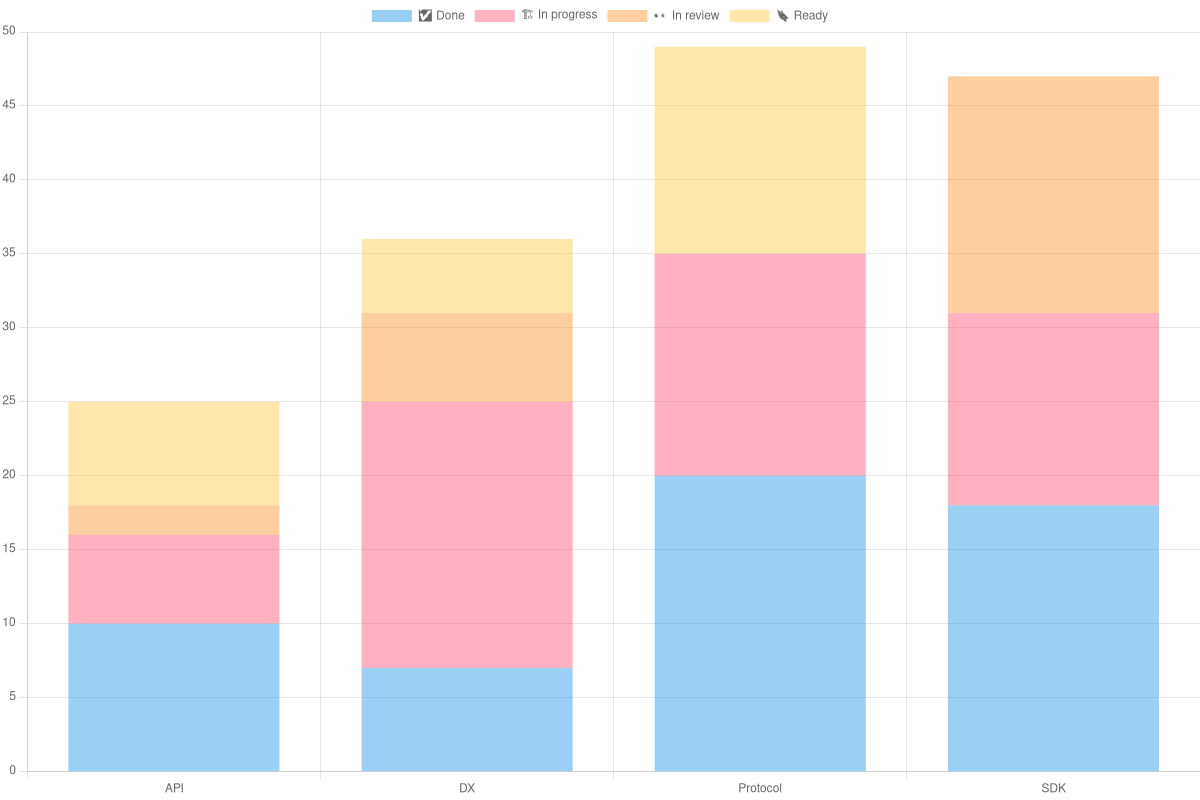
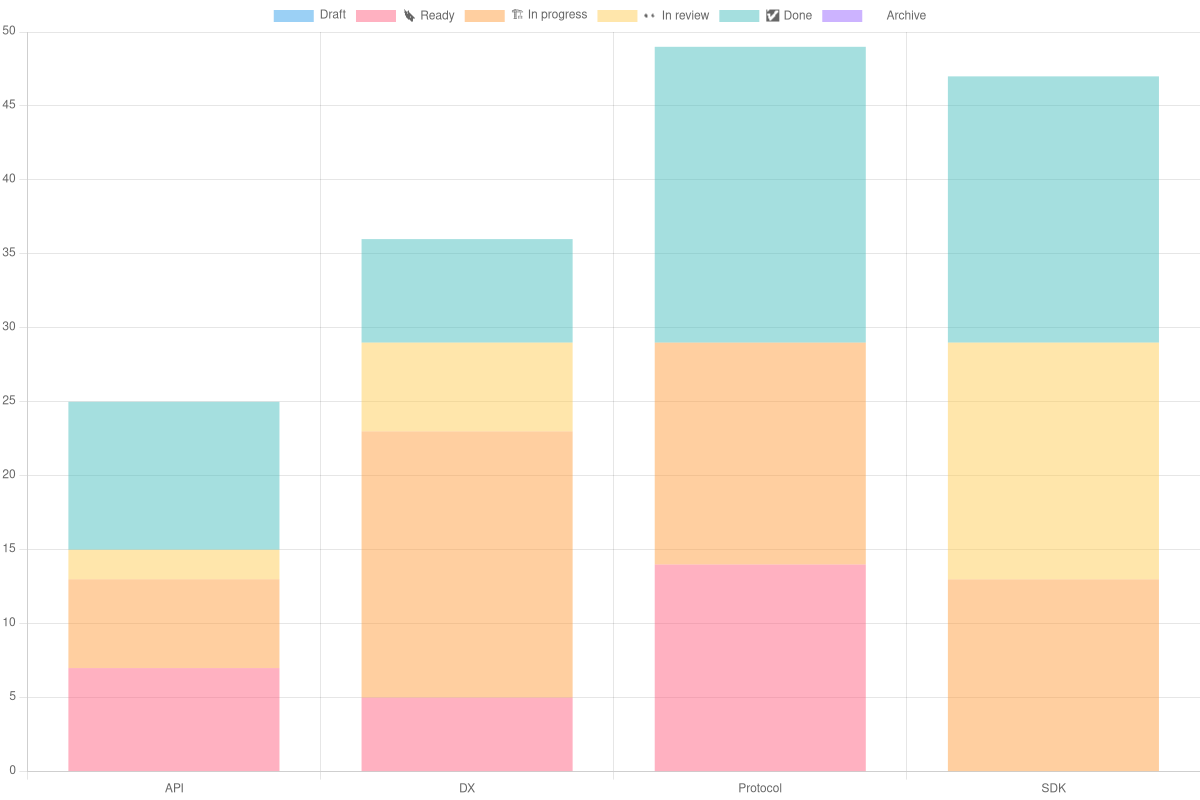
Use same coloring for stati everywhere

diff --git a/src/index.ts b/src/index.ts
@@ -12,13 +12,14 @@ import {
   complexityGroup,
   groupBy,
   iterationMapper,
+  labelReducer,
   renderSimple,
   staticLabels,
   statusMapper,
   stringLabels,
   teamMapper,
 } from "./utils";
-import { buildDatasets } from "./render";
+import { buildDatasets, dynamicRender } from "./render";
 import { updateBurnDown } from "./burn";
 import { MDWriter } from "./md";
 import fs from "fs";
@@ -46,11 +47,18 @@ const execute = async () => {
     if (startDate > now || endDate < now) continue;
     currentIteration = iteration;
     // Render Status per Team per Day graph
-    await renderSimple(iterationItems, teamMapper, statusMapper, {
-      path: `stats/${name}/status_per_team/`,
-      name: runId,
-      stacked: true,
-    });
+
+    await dynamicRender(
+      iterationItems,
+      labelReducer(teamMapper),
+      staticLabels(stati),
+      complexityGroup(teamMapper, statusMapper),
+      {
+        path: `stats/${name}/status_per_team/`,
+        name: runId,
+        stacked: true,
+      }
+    );
     // Create Core Status distribution for Core Burn Down Chart
     const coreBurn = await buildDatasets(
       iterationItems,
